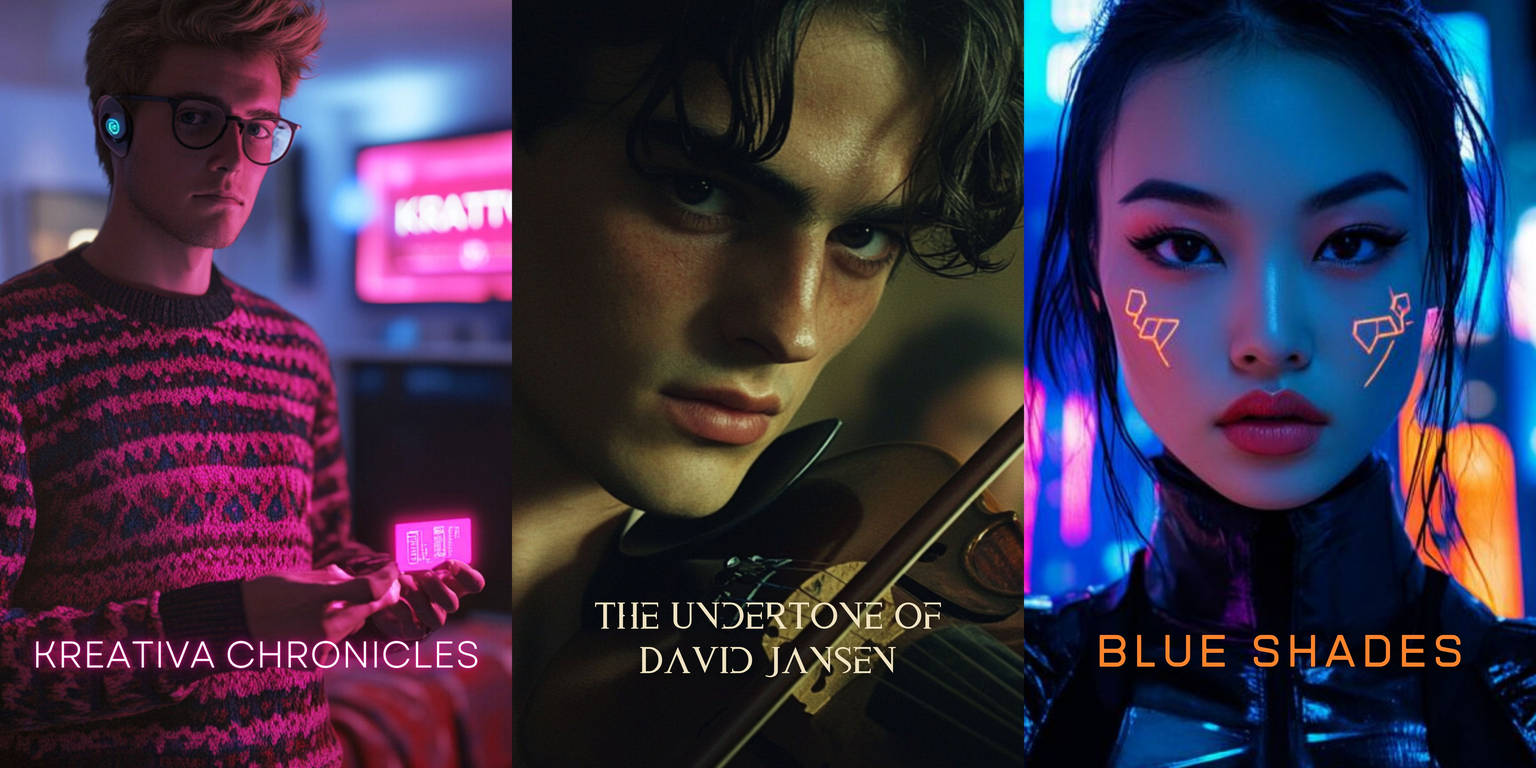
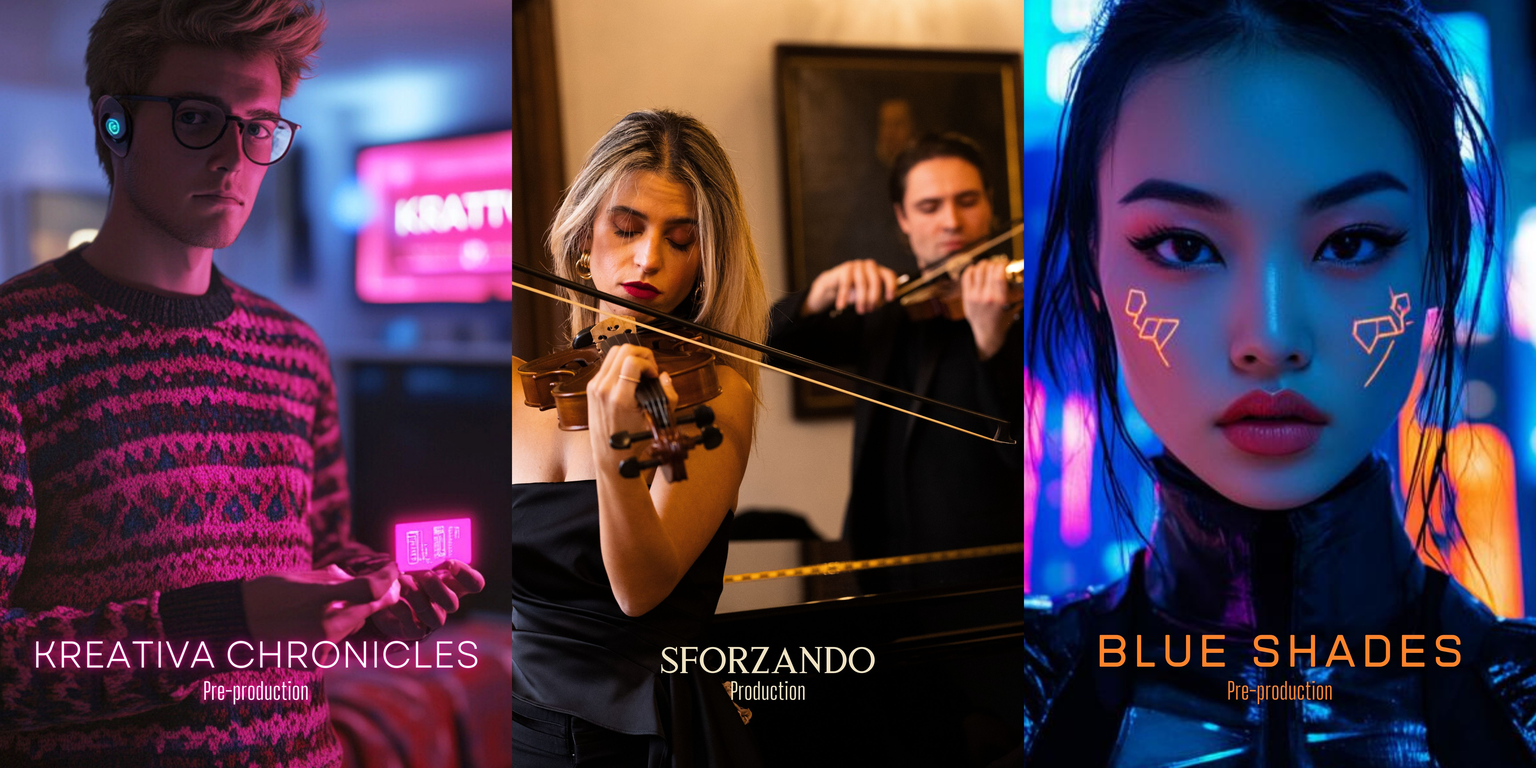
added new assets

diff --git a/public/assets/css/style.css b/public/assets/css/style.css
@@ -27,6 +27,16 @@ nav {
     background-repeat: no-repeat;
     background-size: cover;
 }
+.imageCannes{
+    height: 72rem;
+    background-image: url("/assets/images/Cannes2025.jpg");
+    background-position: center;
+    background-repeat: no-repeat;
+    background-size: cover;
+}
+.sforzandoTitlesHome{
+    margin-left: 3%;
+}
 .bannerStory1{
     height: 58rem;
     background-image: url("/assets/images/blueShades2.jpg");
@@ -164,6 +174,9 @@ p {
     }
     .titleVilpa{
         width: 90%;
+    }
+    .imageCannes{
+        height: 45rem;
     }
     
     

diff --git a/public/assets/css/prism.css b/public/assets/css/prism.css
@@ -32,6 +32,7 @@ pre[class*="language-"]::before {
   border-left: none;
 }
 
+
 code[class*="language-"],
 pre[class*="language-"] {
 	color: black;
